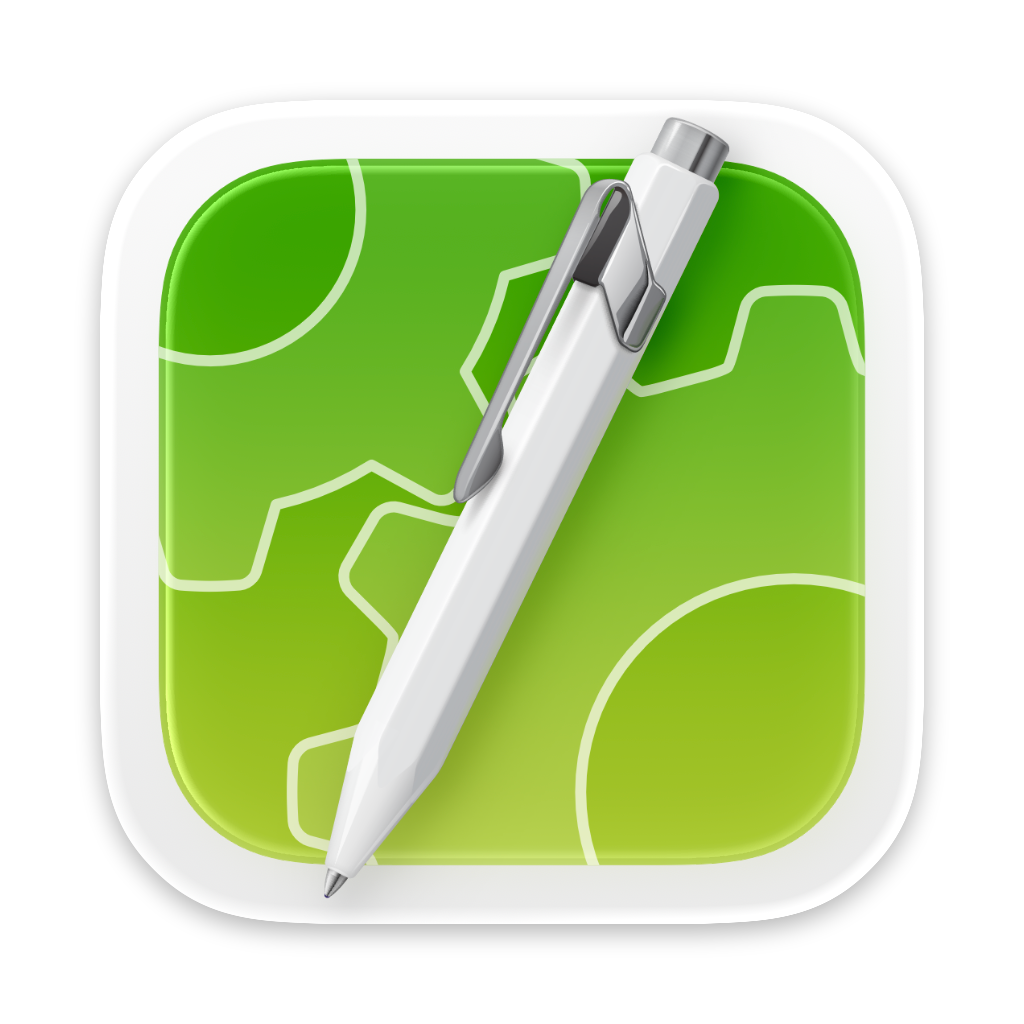
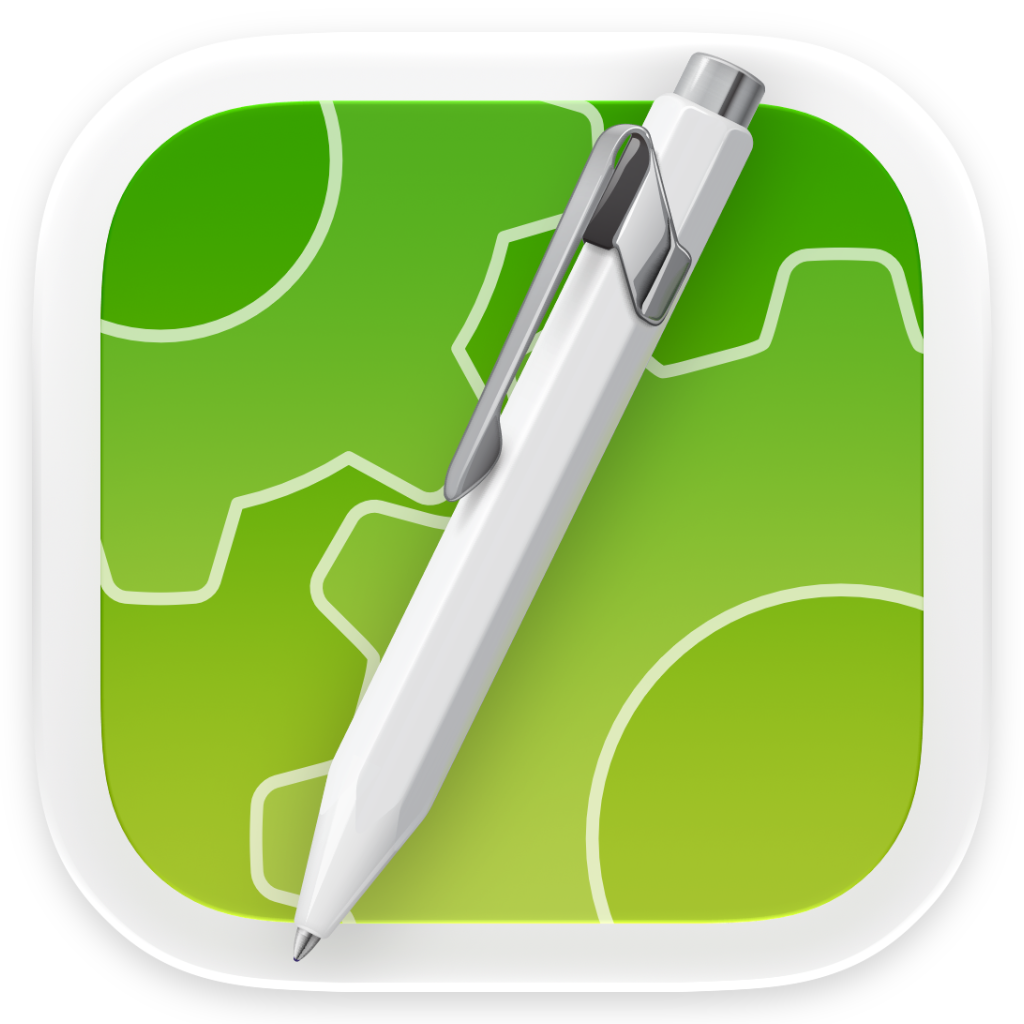
Update appicon

diff --git a/beta.html b/beta.html
@@ -31,7 +31,7 @@
 <body>
 
 <header>
-	<img src="img/appicon/beta_256@2x.png" width="256" alt="[appIcon]"/>
+	<img src="img/appicon/512@2x.png" width="256" alt="[appIcon]"/>
 	<h1>CotEditor <span>Beta</span></h1>
 </header>
 
